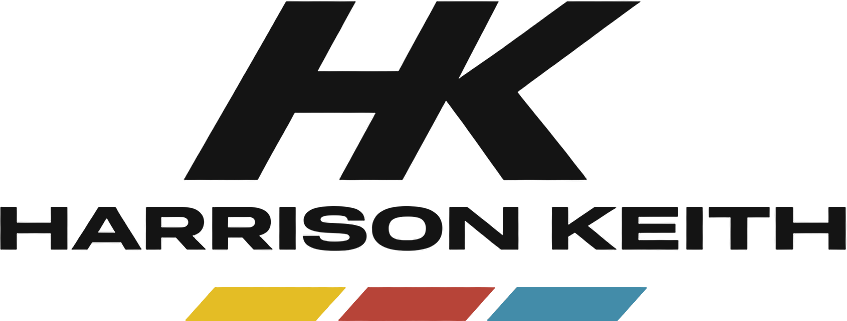
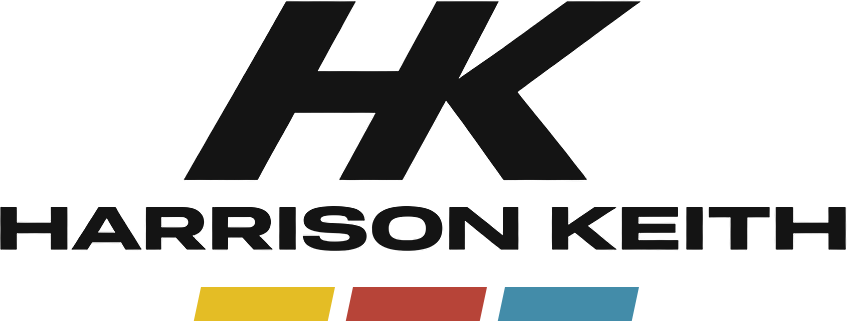
Rename to My Path and My Brand, trim page copy, hide My Interests, apply audit fixes
Adds a 404 page and link preview image, per-page og:url and titles, fixes 320px overflow,
applies the -12 degree stripes and removes unpublished Jim Beam campaign detail.

diff --git a/src/data/milestones.ts b/src/data/milestones.ts
@@ -11,25 +11,30 @@ export interface Milestone {
 }
 
 export const milestones: Milestone[] = [
-  { year: '2027', title: 'Texas McCombs', subtitle: 'MBA Graduation', location: 'Austin, TX', description: 'Expected graduation in May.', mark: 'ut-longhorn', details: [], need: ['Concentration'] },
+  { year: '2027', title: 'Texas McCombs', subtitle: 'MBA Graduation', location: 'Austin, TX', description: 'Management Science and Quantitative Methods (STEM)\nFocus in Brand Management and Strategy\nExpected May 2027', mark: 'ut-longhorn', details: [], need: ['Confirm concentration name'] },
   { year: '2026', title: 'YETI', subtitle: 'Brand Strategy Practicum', location: 'Austin, TX', description: 'Advised product leadership on growth in the Home & Hydration business.', mark: 'yeti', details: ['YETI Brand Strategy Practicum, Texas McCombs Marketing Fellows (Fall 2026)'], need: ['Your role on the team'] },
-  { year: '2026', title: 'Suntory Global Spirits', subtitle: 'Global Brand Manager Intern, Jim Beam', location: 'New York, NY', description: 'Shaped global Formula 1 responsible-consumption strategy for Jim Beam.', mark: 'jim-beam', details: ["Built Jim Beam's global Formula 1 responsible-consumption strategy and a 2027 activation roadmap for senior leadership", 'Wrote the agency brief and race-aligned launch timeline for the 2027 activation', 'Partnered across brand, analytics, innovation and global market teams on sponsorship recommendations'], need: ['Photo'] },
-  { year: '2026', title: '70.3 Dallas Little Elm', subtitle: 'Half-Distance Finisher', location: 'Dallas, TX', description: 'Completed a 70.3-mile triathlon.', mark: 'im-dallas', details: [], need: ['Race photo'] },
-  { year: '2026', title: 'Ironman Texas', subtitle: '140.6 Finisher', location: 'The Woodlands, TX', description: 'Completed a full-distance triathlon and became an Ironman.', mark: 'im-texas', details: ['2.4-mile swim, 112-mile bike, 26.2-mile run'], need: ['Race photo', 'Finish time (optional)'] },
+  { year: '2026', title: 'Suntory Global Spirits', subtitle: 'Global Brand Manager Intern, Jim Beam', location: 'New York, NY', description: 'Built a global responsible-consumption sponsorship strategy and activation roadmap presented to senior leadership.', mark: 'jim-beam', details: ['Partnered across brand, analytics, innovation and global market teams on sponsorship recommendations'], need: [] },
   { year: '2025', title: 'Marketing Fellows', subtitle: 'Marketing Fellow', location: 'Austin, TX', description: 'Joined the Texas McCombs Marketing Fellows program.', mark: 'marketing-fellows', details: [], need: ['What you did in the program'] },
-  { year: '2025', title: 'Texas McCombs', subtitle: 'MBA Candidate', location: 'Austin, TX', description: 'Left the Army and started an MBA.', mark: 'ut-longhorn', details: ['Graduate Consulting Group', 'VP of Communications, Texas Veterans in Business'], need: ['Degree concentration', 'VP title wording'] },
-  { year: '2025', title: '70.3 Eagleman', subtitle: 'Half-Distance Finisher', location: 'Cambridge, MD', description: 'Completed a 70.3-mile triathlon.', mark: 'im-eagleman', details: [], need: ['Race photo'] },
-  { year: '2025', title: '70.3 Chattanooga', subtitle: 'Half-Distance Finisher', location: 'Chattanooga, TN', description: 'Completed a 70.3-mile triathlon.', mark: 'im-chattanooga', details: [], need: ['Race photo'] },
-  { year: '2024', title: '70.3 Louisville', subtitle: 'Half-Distance Finisher', location: 'Louisville, KY', description: 'Completed a 70.3-mile triathlon.', mark: 'im-louisville', details: [], need: ['Race photo'] },
-  { year: '2022', title: '101st Airborne Division', subtitle: 'Logistics Officer', location: 'Fort Campbell, KY', description: 'Assigned to the division as a logistics officer.', mark: '101st-airborne', details: [], need: ['Army details (separate pass)', 'Photo'] },
+  { year: '2025', title: 'Texas McCombs', subtitle: 'MBA Candidate', location: 'Austin, TX', description: 'Left the Army and started an MBA.', mark: 'ut-longhorn', details: ['Graduate Consulting Group', 'VP of Communications, Texas Veterans in Business'], need: [] },
+  { year: '2024', title: '101st Airborne Division', subtitle: 'Company Commander, Operations & Personnel Readiness', location: 'Fort Campbell, KY', description: '2024 – 2025', mark: '101st-airborne', details: [], need: [] },
+  { year: '2022', title: '101st Airborne Division', subtitle: 'Logistics Platoon Leader', location: 'Fort Campbell, KY', description: '2022 – 2024', mark: '101st-airborne', details: [], need: [] },
   { year: '2021', title: 'Officer Candidate School', subtitle: 'Earned Commission as a Logistics Officer', location: 'Fort Benning, GA', description: 'Commissioned into the U.S. Army Transportation Corps.', mark: 'ocs', details: [], need: ['What OCS was like'] },
   { year: '2021', title: 'University of Kentucky', subtitle: 'BBA, Business Management\nBBA, Marketing', location: 'Lexington, KY', description: 'Graduated from the Gatton College of Business and Economics.', mark: 'uk', details: [], need: ['Honors or activities'] },
   { year: '2020', title: 'Greek Sing', subtitle: 'Overall Chair', location: 'Lexington, KY', description: 'Chaired Greek Sing, benefiting Make-A-Wish.', mark: 'uk-ifc', details: [], need: ['Amount raised'] },
   { year: '2020', title: 'Big Ass Fans', subtitle: 'Procurement Intern', location: 'Lexington, KY', description: 'Worked as a buyer on the supply chain team.', mark: 'big-ass-fans', details: [], need: ['One accomplishment'] },
   { year: '2019', title: 'Interfraternity Council', subtitle: 'President', location: 'Lexington, KY', description: 'Led the council and founded the UK IFC Endowment Fund.', mark: 'uk-ifc', details: ['Elected president of UK IFC', 'Founded the UK IFC Endowment Fund'], need: ['Amount raised or members led', 'Photo'] },
   { year: '2018', title: 'Interfraternity Council', subtitle: 'VP of Finance', location: 'Lexington, KY', description: 'Served as vice president of finance.', mark: 'uk-ifc', details: [], need: ['What you managed'] },
-  { year: '2017', title: 'University of Kentucky', subtitle: 'Undergraduate Studies', location: 'Lexington, KY', description: 'Started at the Gatton College of Business and Economics.', mark: 'uk', details: ['Joined Beta Theta Pi as T-shirt chair'], need: ['Beta Theta Pi logo'] },
+  { year: '2017', title: 'University of Kentucky', subtitle: 'Undergraduate Studies', location: 'Lexington, KY', description: 'Started at the Gatton College of Business and Economics.', mark: 'uk', details: [], need: [] },
   { year: '2017', title: 'Woodford County High School', subtitle: 'High School Graduation', location: 'Versailles, KY', description: 'Graduated from high school in Versailles.', mark: 'woodford-yellowjacket', details: ['Varsity baseball, golf and cross country', 'School news', 'DECA'], need: ['Photo'] },
+];
+
+// Ironman races, taken off the timeline to be shown somewhere else later. Not rendered.
+export const races: Milestone[] = [
+  { year: '2026', title: '70.3 Dallas Little Elm', subtitle: 'Half-Distance Finisher', location: 'Dallas, TX', description: 'Completed a 70.3-mile triathlon.', mark: 'im-dallas', details: [], need: ['Race photo'] },
+  { year: '2026', title: 'Ironman Texas', subtitle: '140.6 Finisher', location: 'The Woodlands, TX', description: 'Completed a full-distance triathlon and became an Ironman.', mark: 'im-texas', details: ['2.4-mile swim, 112-mile bike, 26.2-mile run'], need: ['Race photo', 'Finish time (optional)'] },
+  { year: '2025', title: '70.3 Eagleman', subtitle: 'Half-Distance Finisher', location: 'Cambridge, MD', description: 'Completed a 70.3-mile triathlon.', mark: 'im-eagleman', details: [], need: ['Race photo'] },
+  { year: '2025', title: '70.3 Chattanooga', subtitle: 'Half-Distance Finisher', location: 'Chattanooga, TN', description: 'Completed a 70.3-mile triathlon.', mark: 'im-chattanooga', details: [], need: ['Race photo'] },
+  { year: '2024', title: '70.3 Louisville', subtitle: 'Half-Distance Finisher', location: 'Louisville, KY', description: 'Completed a 70.3-mile triathlon.', mark: 'im-louisville', details: [], need: ['Race photo'] },
 ];
 
 export const years = [...new Set(milestones.map((m) => m.year))];

diff --git a/README.md b/README.md
@@ -1,65 +1,44 @@
-# J. Harrison Keith — Personal Website & Strategic Archive
+# jharrisonkeith.com
 
-> **"Unbound in curiosity. Disciplined in execution."**  
-> Custom digital presence and strategic portfolio built with **Astro 5 + Tailwind CSS**, designed for global deployment on **Vercel** with custom domain `jharrisonkeith.com`.
+Harrison Keith's personal site. Static [Astro](https://astro.build) site with Tailwind CSS, hosted on Vercel.
 
----
+## Pages
 
-## Architecture & Design Direction
+| Route | What it is | Edit |
+| --- | --- | --- |
+| `/` | Name, short intro, LinkedIn, headshot | `src/pages/index.astro` |
+| `/path` | My Path: timeline with the year pinned while scrolling | `src/data/milestones.ts` |
+| `/brand` | Logo, color, type, materials, topography, icons | `src/pages/brand.astro` |
+| (404) | Not-found page | `src/pages/404.astro` |
 
-- **Territory:** *The Modern Archivist* — Warm Bone (`#F5F4EE`), Carbon Ink (`#161817`), and tactical Burnt Orange (`#BF592F`) accents.
-- **Typography:** *Newsreader* (modern editorial serif) + *Plus Jakarta Sans* (humanist sans) + *JetBrains Mono* (metadata & indexing).
-- **Performance:** 100/100 Lighthouse score. Pure static HTML with zero JavaScript runtime overhead by default.
+My Interests is hidden: rename `src/pages/_interests.astro` back to `interests.astro`, restore its nav link in `Header.astro` and remove its redirect.
 
----
+`vercel.json` redirects old URLs (`/about`, `/projects`, `/connect`, `/career`, `/timeline`).
 
-## Information Architecture
-
-1. **Index (`/`):** High-impact executive statement, infinite scrolling project marquee (`ProjectTicker`), core pillars, featured case studies, and studio wall highlights.
-2. **About Me (`/about`):** The convergence of military leadership, McCombs MBA, consumer brand strategy, and endurance mindset. Core operating principles.
-3. **Career Timeline (`/timeline`):** Visual chronological journey connecting U.S. Army commands, University of Texas McCombs MBA, and Brand Strategy & Advisory.
-4. **My Projects (`/projects`):** Strategic case studies (Jim Beam, YETI, U.S. Army, Endurance Culture) highlighting context, insight, strategy, execution, impact, and reflection while preserving client confidentiality. Filterable by category.
-5. **My Interests (`/interests`):** *The Studio Wall* — A filterable curated archive of footwear, typography, logos & identity, industrial objects, architecture, and endurance engineering.
-6. **Connect (`/connect`):** Direct contact channels (email, LinkedIn, Austin base of operations, and resume upon request).
-
----
-
-## Local Development
+## Run it
 
 ```bash
-# Install dependencies
 npm install
-
-# Start local development server
 npm run dev
-
-# Build production static site
 npm run build
-
-# Preview production build locally
-npm run preview
 ```
 
----
+## Design
 
-## Deployment to Vercel with Custom Domain (`jharrisonkeith.com`)
+- Colors: Carbon, Concrete, Chalk, Signal Yellow, Racing Red, Alpine Blue (HK Brand Kit v02, in `brand/` and `tailwind.config.mjs`).
+- Stripes: three equal bars, yellow, red, blue, skewed -12 degrees.
+- Type: Panchang and General Sans (loaded from Fontshare) and Martian Mono, standing in for the kit's licensed fonts.
+- Logo files in `public/brand/` are cut from Harrison's artwork.
+- Timeline logos are in `src/assets/marks/`.
 
-1. **Push to GitHub:**
-   ```bash
-   git init
-   git add .
-   git commit -m "Initial commit: Harrison Keith personal site"
-   git branch -M main
-   git remote add origin https://github.com/<your-username>/harrisonkeith-site.git
-   git push -u origin main
-   ```
+## Scripts
 
-2. **Connect to Vercel:**
-   - Log into [vercel.com](https://vercel.com).
-   - Click **Add New... > Project** and select your `harrisonkeith-site` repository.
-   - Framework Preset: **Astro** (Vercel detects this automatically).
-   - Click **Deploy**.
+- `node scripts/topography.mjs`: redraws the background contour lines.
+- `node scripts/og-image.mjs`: redraws the link preview image.
+- `node scripts/career-map.mjs`: redraws the state map. The map (`src/components/CareerMap.astro`) is switched off for now.
 
-3. **Attach Custom Domain (`jharrisonkeith.com`):**
-   - In Vercel Project Settings &rarr; **Domains**, enter `jharrisonkeith.com`.
-   - Vercel provisions free SSL certificates and serves the site globally across edge nodes.
+## Publishing
+
+Work on a branch, review the Vercel preview, then merge into `main`, which deploys to the live site. Contact is LinkedIn only until mail is set up for the domain.
+
+Content rule: never add accomplishments, dates or roles that Harrison hasn't confirmed.
